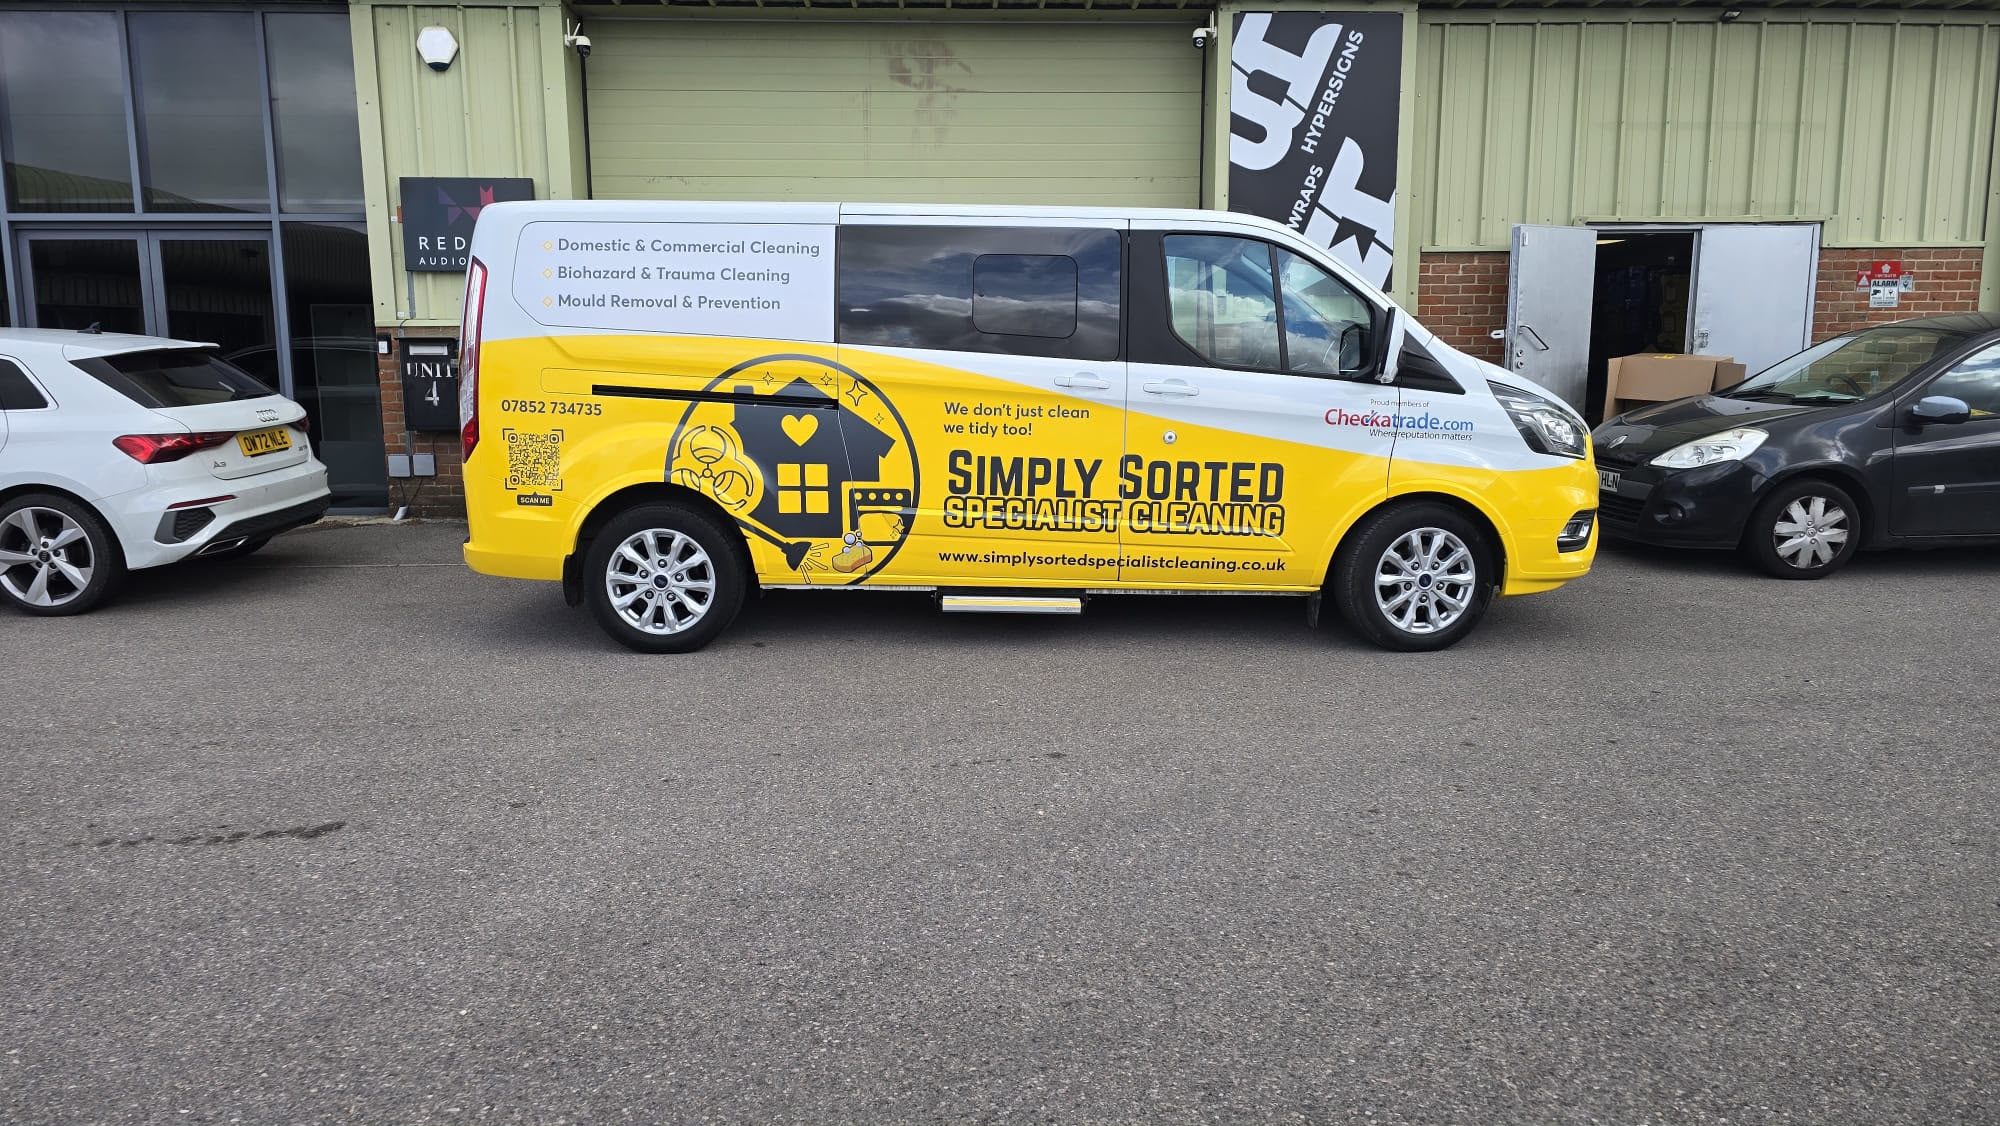
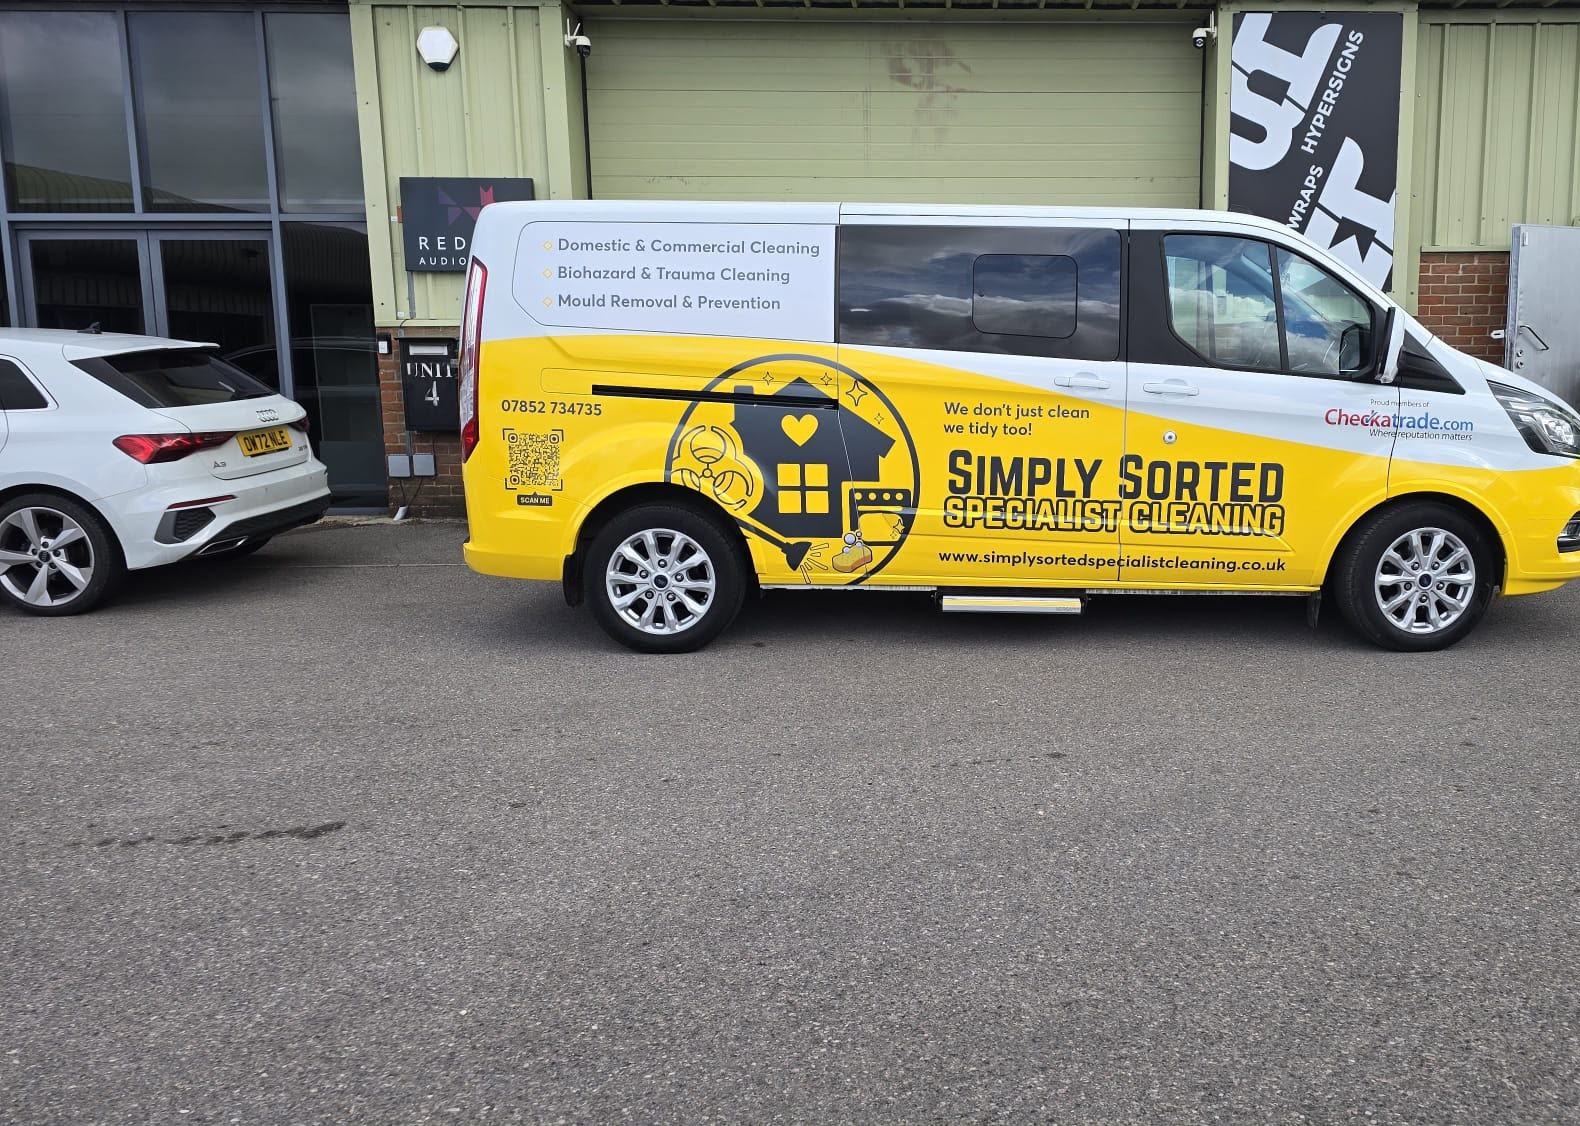
Added trimmed-van photo right aligned

diff --git a/styles.css b/styles.css
@@ -129,7 +129,7 @@ body {
       rgba(41,52,54,0) 50%),
     url('images/hero-van.jpg');
   background-size: cover, cover;
-  background-position: left center, center 42%;
+  background-position: left left, left 42%;
   background-repeat: no-repeat, no-repeat;
   display:flex;
   align-items:center;
